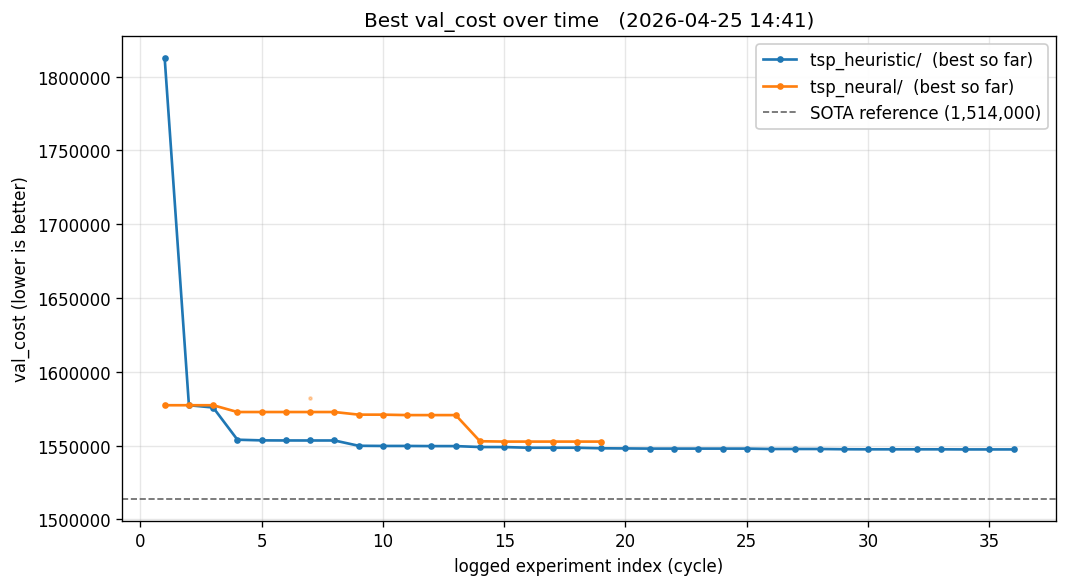
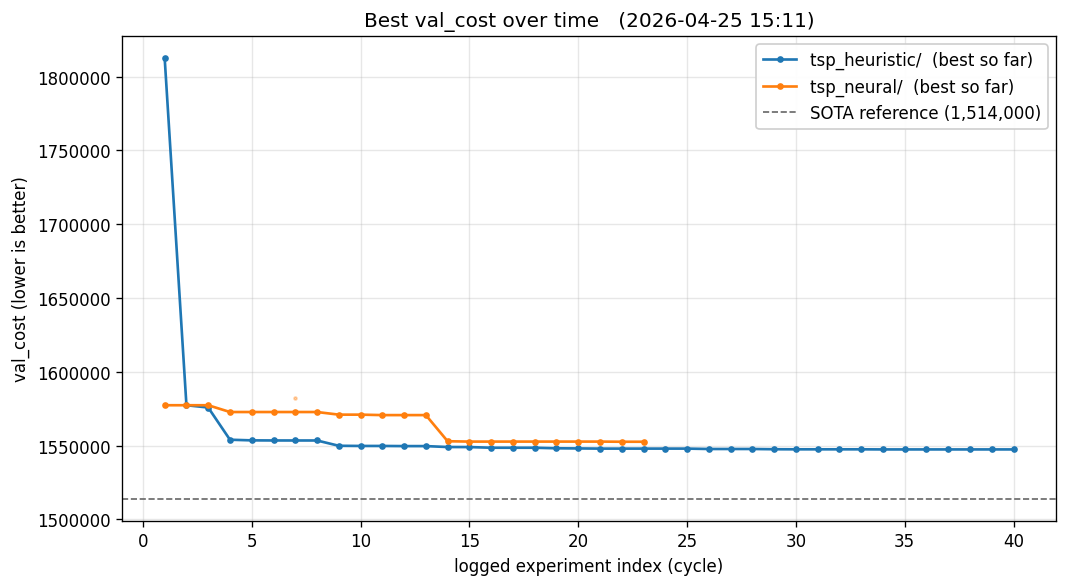
docs: status + chart refresh (auto-tick 15:11)
Heuristic: 36→40 cycles. Best unchanged at 1,547,351; on a
discard streak (Reg2 +577, P5 stacked-DB +846, H6 bandit +745).

Neural: 19→23 cycles. NEW BEST 1,552,555 (Z1 prime-aware
boundary-gain check; −105 vs prior). Initial-converge quality
improved by 743 vs cycle 15. Z1 fast-path follow-up didn't help
(same val_cost — bottleneck is convergence rate, not check speed).
Badge unchanged at 97.45% (sub-2-decimal improvement).

diff --git a/README.md b/README.md
@@ -100,13 +100,13 @@ by a periodic cron job (see `chart-progress` skill).
 
 ## Status
 
-*As of 2026-04-25 14:41 EDT. SOTA = 1,514,000 (Santa 2018 top
+*As of 2026-04-25 15:11 EDT. SOTA = 1,514,000 (Santa 2018 top
 public-LB). Badge = `100% − gap`. Higher is better.*
 
 | Loop | Badge | Best `val_cost` | Cycles |
 |---|---|---|---|
-| `tsp_heuristic/` | `[ 97.80% SOTA ]` | 1,547,351 | 36 |
-| `tsp_neural/`    | `[ 97.45% SOTA ]` | 1,552,660 | 19 |
+| `tsp_heuristic/` | `[ 97.80% SOTA ]` | 1,547,351 | 40 |
+| `tsp_neural/`    | `[ 97.45% SOTA ]` | 1,552,555 | 23 |
 
 ![Progress](progress.png)
 
